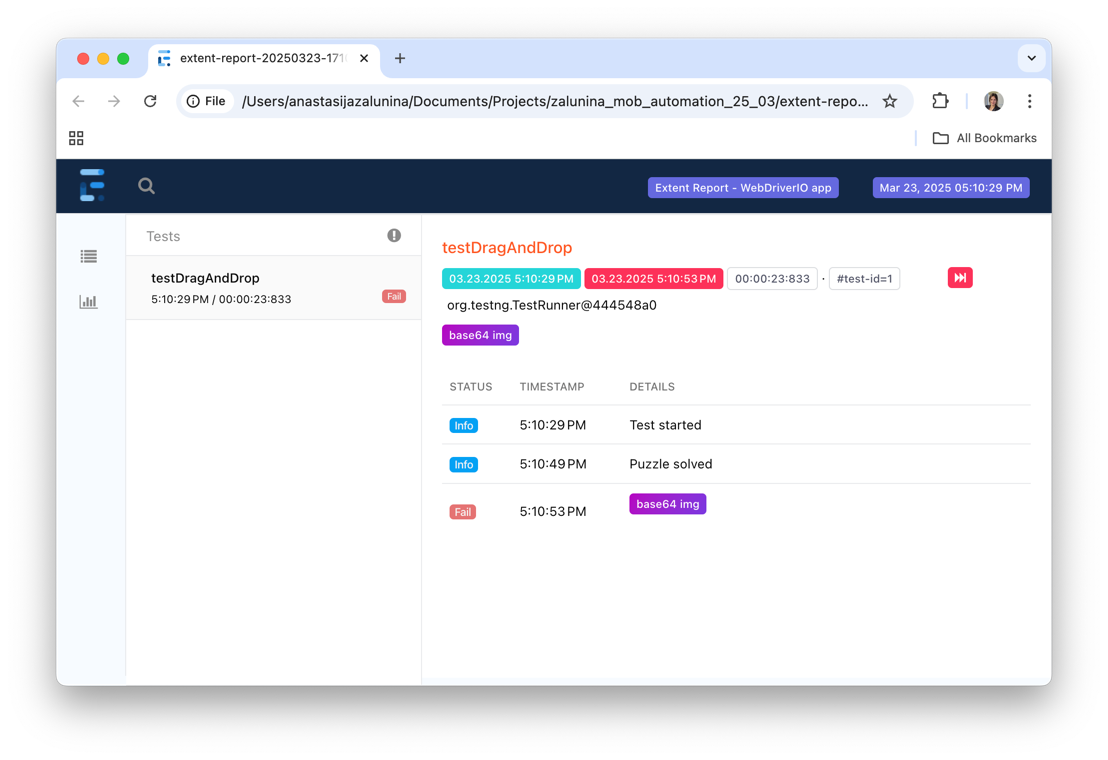
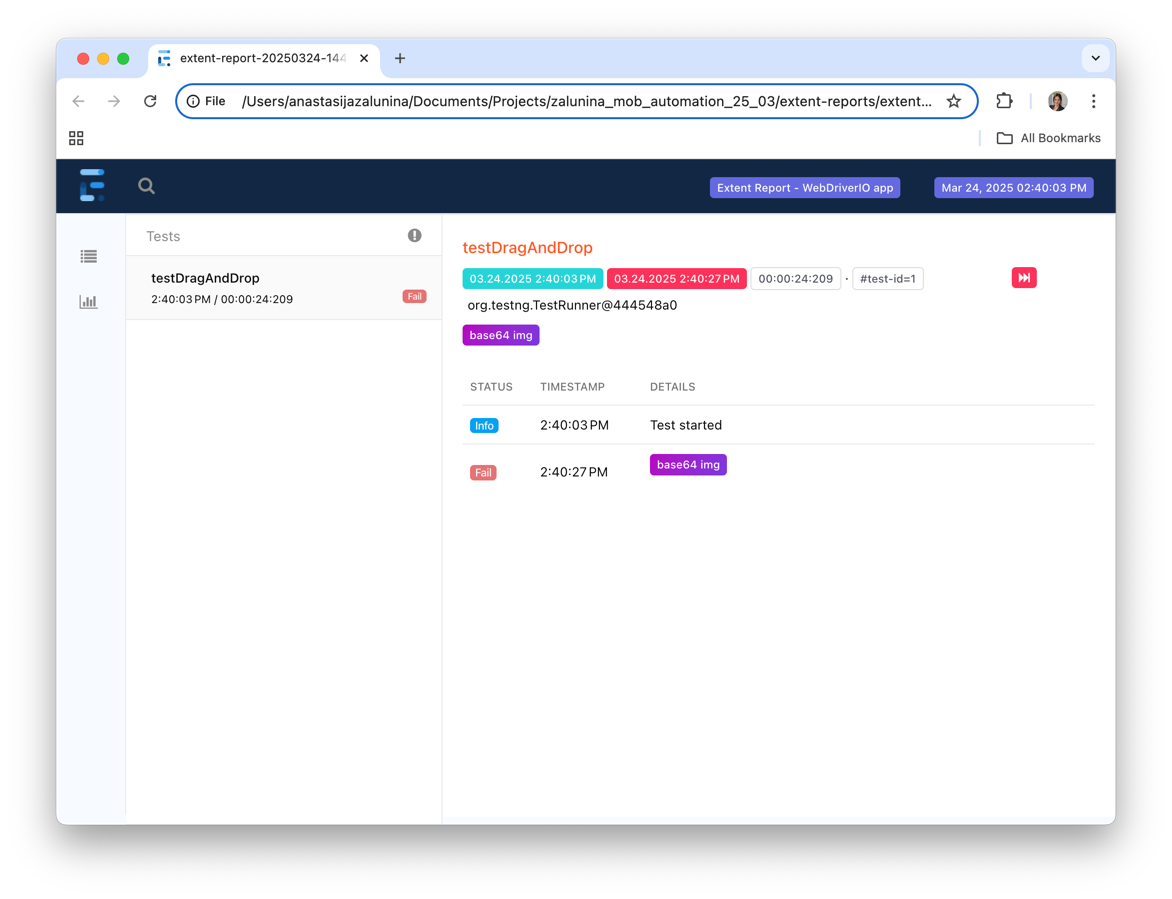
add minor updates

diff --git a/src/test/java/TestCases.java b/src/test/java/TestCases.java
@@ -1,4 +1,5 @@
 import dataObjects.Credentials;
+
 import io.appium.java_client.android.AndroidDriver;
 import io.appium.java_client.service.local.AppiumDriverLocalService;
 import io.appium.java_client.service.local.AppiumServiceBuilder;
@@ -160,6 +161,7 @@ public class TestCases {
         Assert.assertTrue(formScreen.isDisplayed());
         formScreen.insertText(inputText);
         String outputText = formScreen.retrieveText();
+        getTest().info("Output text: " + outputText);
         Assert.assertNotEquals(outputText, inputText, "Input failed to exceed the allowed size.");
     }
 
@@ -180,7 +182,7 @@ public class TestCases {
         Assert.assertEquals(retrievedOption, option, "Dropdown options mismatch.");
     }
 
-    @Test(testName = "Swipe", groups = {"swipe"})
+    @Test(testName = "Swipe", groups = {"swipe", "smoke"})
     public void testSwipe() {
         Assert.assertTrue(bottomNavigation.isDisplayed());
         bottomNavigation.tapSwipeIcon();
@@ -194,7 +196,7 @@ public class TestCases {
             getTest().info("Next card title: " + actualTitles[i]);
         }
         Assert.assertEquals(actualTitles, Data.expectedTitles, "Card titles mismatch.");
-//        getTest().addScreenCaptureFromBase64String(DriverMethods.getScreenshot()).getModel().getMedia().get(0);
+        getTest().addScreenCaptureFromBase64String(DriverMethods.getScreenshot()).getModel().getMedia().get(0);
     }
 
     @Test(testName = "Drag and drop", groups = {"drag", "smoke"})
@@ -203,16 +205,15 @@ public class TestCases {
         bottomNavigation.tapDragIcon();
         Assert.assertTrue(dragScreen.isDisplayed());
         dragScreen.dragAndDropAllPieces();
-        getTest().info("Puzzle solved");
         Assert.assertTrue(dragScreen.congratulationsTextIsDisplayed());
         Assert.assertTrue(dragScreen.retryButtonIsDisplayed());
+        getTest().info("Puzzle solved");
     }
 
     @AfterMethod(alwaysRun = true)
     public void afterMethodCleanup() {
         driver.executeScript("mobile: terminateApp", Map.ofEntries(
                 Map.entry("appId", "com.wdiodemoapp"),
-//                Map.entry("appId", TestProperties.getProperty("appPackage")),
                 Map.entry("timeout", 1000)
         ));
     }

diff --git a/src/main/java/screens/SwipeScreen.java b/src/main/java/screens/SwipeScreen.java
@@ -3,10 +3,14 @@ package screens;
 import io.appium.java_client.android.AndroidDriver;
 import io.appium.java_client.pagefactory.AndroidFindBy;
 import io.appium.java_client.pagefactory.AppiumFieldDecorator;
+
+import io.appium.java_client.pagefactory.HowToUseLocators;
+import io.appium.java_client.pagefactory.LocatorGroupStrategy;
 import org.openqa.selenium.WebElement;
 import org.openqa.selenium.support.PageFactory;
 import org.openqa.selenium.support.ui.ExpectedConditions;
 import org.openqa.selenium.support.ui.WebDriverWait;
+
 import utils.DriverMethods;
 
 import java.time.Duration;
@@ -18,10 +22,13 @@ public class SwipeScreen {
     @AndroidFindBy(accessibility = "Carousel")
     private WebElement carouselView;
 
+    @HowToUseLocators(androidAutomation = LocatorGroupStrategy.ALL_POSSIBLE)
+    @AndroidFindBy(uiAutomator = "new UiSelector().text(\"Swipe horizontal\")")
+    @AndroidFindBy(xpath = "//android.widget.TextView[@text=\"Swipe horizontal\"]", priority = 1)
+    private WebElement screenTitleView;
+
     @AndroidFindBy(xpath = "(//android.view.ViewGroup[@content-desc=\"slideTextContainer\"])[1]//android.widget.TextView[1]")
     private WebElement cardTitle;
-
-//    new UiSelector().text("Swipe horizontal")
 
     public SwipeScreen(AndroidDriver driver) {
         this.driver = driver;
@@ -30,6 +37,7 @@ public class SwipeScreen {
     }
 
     public boolean isDisplayed() {
+       wait.until(ExpectedConditions.visibilityOf(screenTitleView));
        return wait.until(ExpectedConditions.visibilityOf(carouselView)).isDisplayed();
     }
 

diff --git a/src/main/java/screens/FormScreen.java b/src/main/java/screens/FormScreen.java
@@ -1,11 +1,11 @@
 package screens;
 
-import io.appium.java_client.AppiumBy;
 import io.appium.java_client.android.AndroidDriver;
 import io.appium.java_client.pagefactory.AndroidFindBy;
 import io.appium.java_client.pagefactory.AppiumFieldDecorator;
+import io.appium.java_client.pagefactory.HowToUseLocators;
+import io.appium.java_client.pagefactory.LocatorGroupStrategy;
 import org.openqa.selenium.By;
-import org.openqa.selenium.WebDriver;
 import org.openqa.selenium.WebElement;
 import org.openqa.selenium.support.PageFactory;
 import org.openqa.selenium.support.ui.ExpectedConditions;
@@ -17,18 +17,18 @@ public class FormScreen {
     private AndroidDriver driver;
     private WebDriverWait wait;
 
+    @HowToUseLocators(androidAutomation = LocatorGroupStrategy.ALL_POSSIBLE)
+    @AndroidFindBy(xpath = "//android.widget.TextView[@text=\"Form components\"]", priority = 1)
     @AndroidFindBy(uiAutomator = "new UiSelector().text(\"Form components\")")
     private WebElement formTextView;
 
     @AndroidFindBy(accessibility = "text-input")
-//    @AndroidFindBy(id = "RNE__Input__text-input")
     private WebElement textInputField;
 
     @AndroidFindBy(accessibility = "input-text-result")
     private WebElement textOutputField;
 
     @AndroidFindBy(uiAutomator = "new UiSelector().resourceId(\"text_input\")")
-//    @AndroidFindBy(id = "text_input")
     private WebElement dropDown;
 
 

diff --git a/src/main/java/screens/DragScreen.java b/src/main/java/screens/DragScreen.java
@@ -6,7 +6,6 @@ import io.appium.java_client.pagefactory.AndroidFindBy;
 import io.appium.java_client.pagefactory.AppiumFieldDecorator;
 import io.appium.java_client.pagefactory.HowToUseLocators;
 import io.appium.java_client.pagefactory.LocatorGroupStrategy;
-import org.openqa.selenium.By;
 import org.openqa.selenium.WebElement;
 import org.openqa.selenium.support.PageFactory;
 import org.openqa.selenium.support.ui.ExpectedConditions;
@@ -72,7 +71,6 @@ public class DragScreen {
                 "drag-c1", "drag-c2", "drag-c3",
                 "drag-r1", "drag-r2", "drag-r3"
         };
-
         for (int i = 0; i < widths.length; i++) {
             String id = elemIds[i];
             WebElement element = wait.until(ExpectedConditions.visibilityOfElementLocated(AppiumBy.accessibilityId(id)));

diff --git a/src/main/java/screens/LoginAndSignUpScreen.java b/src/main/java/screens/LoginAndSignUpScreen.java
@@ -29,9 +29,7 @@ public class LoginAndSignUpScreen {
     @AndroidFindBy(xpath = "//android.widget.EditText[@content-desc=\"input-password\"]")
     private WebElement passwordField;
 
-    @HowToUseLocators(androidAutomation = LocatorGroupStrategy.ALL_POSSIBLE)
     @AndroidFindBy(uiAutomator = "new UiSelector().text(\"LOGIN\")")
-    @AndroidFindBy(xpath = "//android.widget.TextView[@text=\"LOGIN\"]")
     private WebElement loginButton;
 
     @AndroidFindBy(xpath = "//android.widget.TextView[preceding-sibling::android.view.ViewGroup[android.widget.EditText[@content-desc=\"input-email\"]]]")

diff --git a/README.md b/README.md
@@ -21,7 +21,7 @@ mvn clean test -Dsurefire.suiteXmlFiles=parameter-test.xml
 ```
 ## Test reports
 ### To see the reports, open the .html file in /extent-reports
-#### Test run results
+#### Test run results:
 ![img.png](img.png)
-#### Failed test report
+#### Example of a failed test:
 ![img_1.png](img_1.png)
